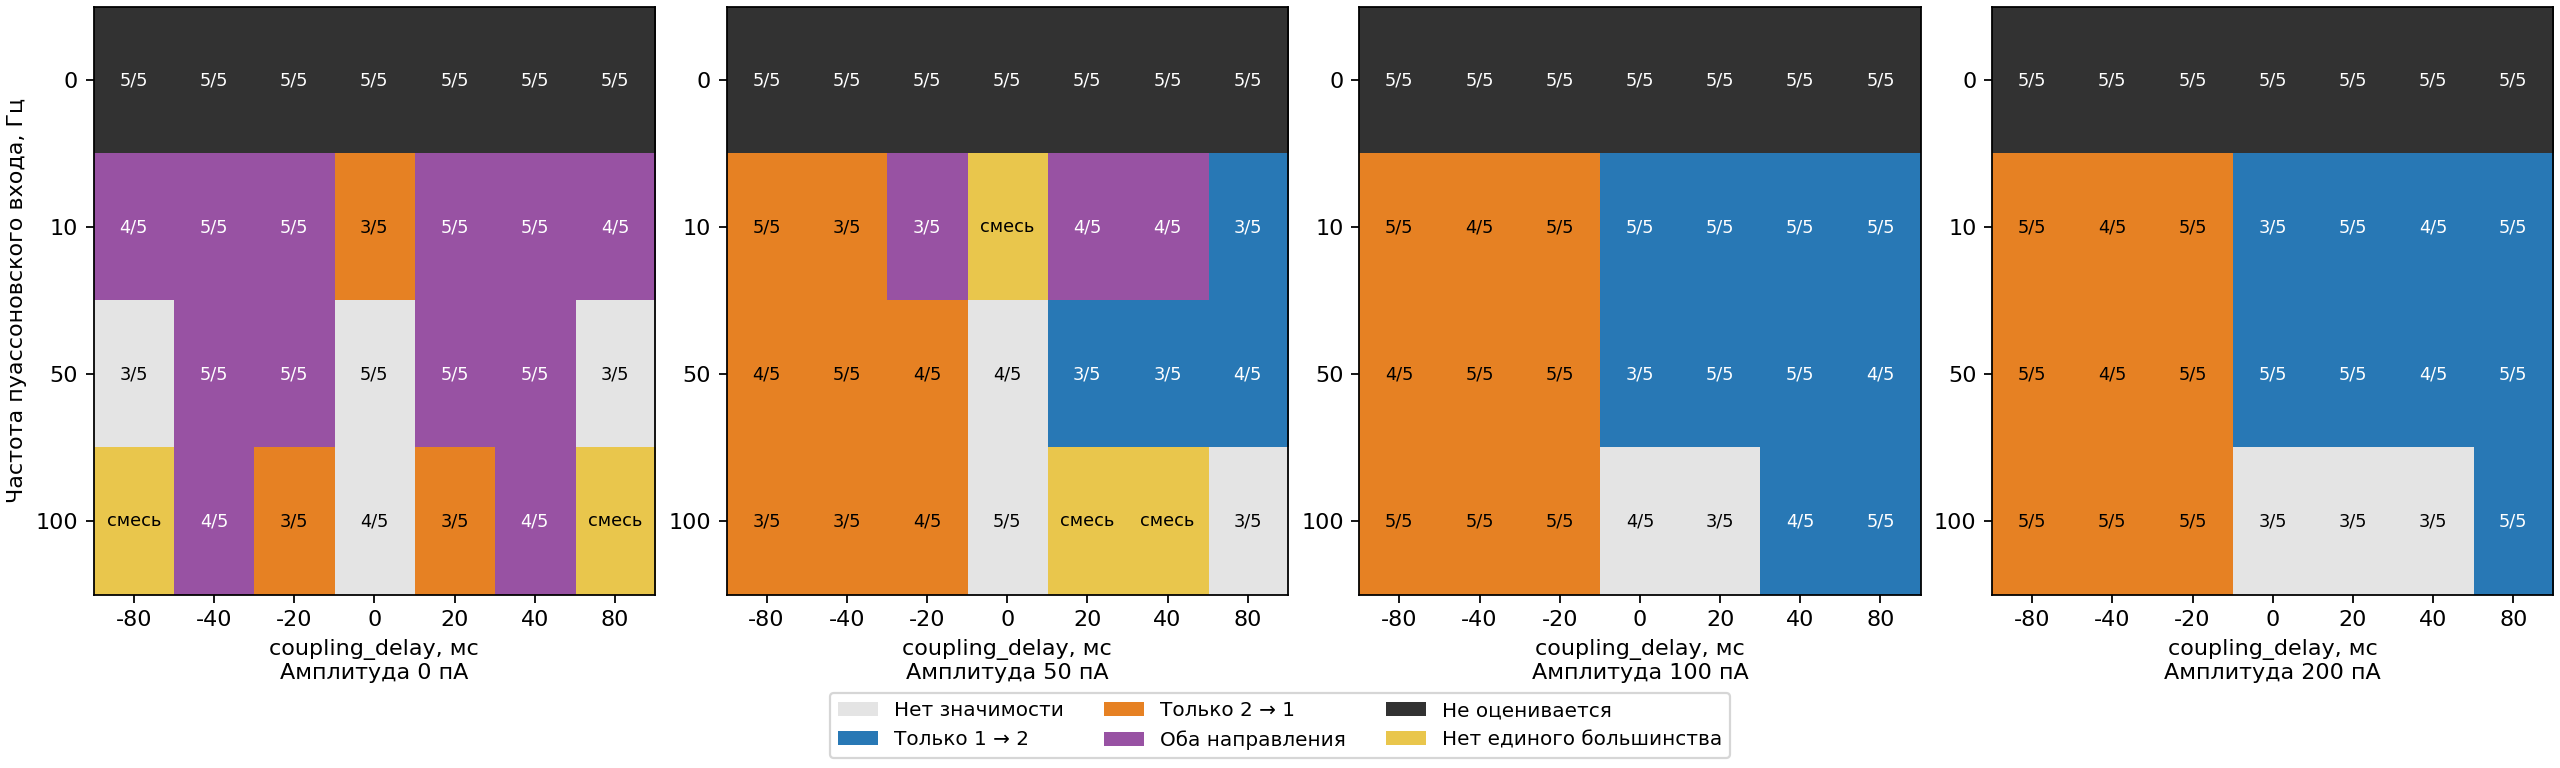
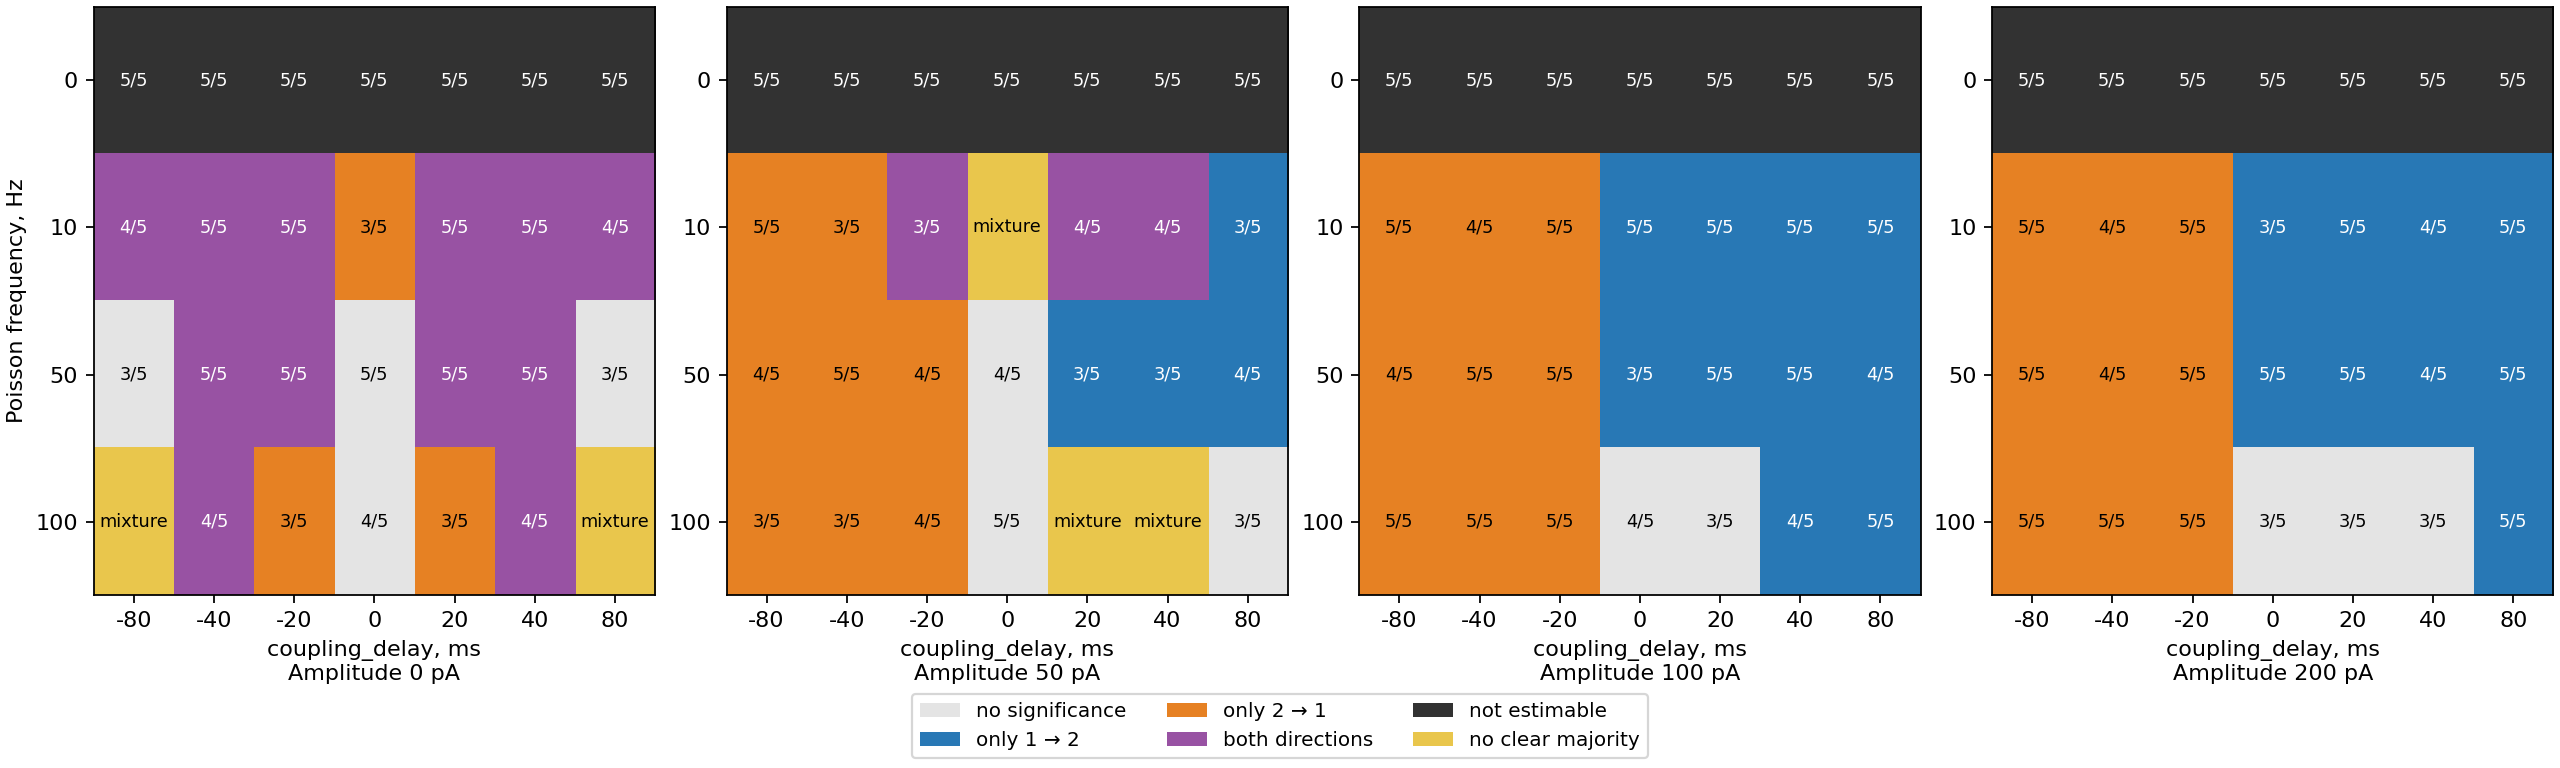
ver2.2

diff --git a/experiment3/systematic_reporting.py b/experiment3/systematic_reporting.py
@@ -7,8 +7,8 @@ import numpy as np
 
 METRICS = ("GC", "PDC", "DTF")
 OUTCOMES = (
-    "Нет значимости", "Только 1 → 2", "Только 2 → 1", "Оба направления",
-    "Не оценивается", "Нет единого большинства",
+    "no significance", "only 1 → 2", "only 2 → 1", "both directions",
+    "not estimable", "no clear majority",
 )
 
 
@@ -52,7 +52,7 @@ def plot_direction_maps(output, manifest, rows):
             )
             axes = axes[0]
             for amplitude, axis in zip(amplitudes, axes):
-                axis.set_xlabel(f"coupling_delay, мс\nАмплитуда {amplitude:g} пА")
+                axis.set_xlabel(f"coupling_delay, ms\nAmplitude {amplitude:g} pA")
                 axis.set_xticks(range(len(delays)), [f"{d:g}" for d in delays])
                 axis.set_yticks(range(len(noises)), [f"{v:g}" for v in noises])
                 codes = np.empty((len(noises), len(delays)), dtype=int)
@@ -63,11 +63,11 @@ def plot_direction_maps(output, manifest, rows):
                         winners = [code for code, count in counts.items() if count > len(samples)/2]
                         code = winners[0] if winners else 5
                         codes[i, j] = code
-                        text = f"{counts[code]}/{len(samples)}" if code < 5 else "смесь"
+                        text = f"{counts[code]}/{len(samples)}" if code < 5 else "mixture"
                         axis.text(j, i, text, ha="center", va="center", fontsize=8,
                                   color="white" if code in (1, 3, 4) else "black")
                 axis.imshow(codes, cmap=cmap, norm=norm, aspect="auto", interpolation="nearest")
-            axes[0].set_ylabel("Частота пуассоновского входа, Гц" if poisson else "Шум, мВ")
+            axes[0].set_ylabel("Poisson frequency, Hz" if poisson else "Noise, mV")
             figure.legend(
                 handles=[Patch(facecolor=c, label=label) for c, label in zip(colors, OUTCOMES)],
                 loc="outside lower center", ncols=3, fontsize=9,

diff --git a/experiment3/systematic_analysis.py b/experiment3/systematic_analysis.py
@@ -173,7 +173,7 @@ def main(argv=None):
     parser.add_argument("--p-max", type=int, default=20)
     parser.add_argument("--workers", type=int, default=4)
     parser.add_argument("--backend", choices=("cython", "numpy"), default="cython")
-    parser.add_argument("--output-dir", type=Path, default=BASE / "direction_results_harmonic_v2")
+    parser.add_argument("--output-dir", type=Path, default=BASE / "experiment3_results")
     parser.add_argument("--report-only", action="store_true",
                         help="Redraw only the six maps using saved manifest.json and runs.csv.")
     args = parser.parse_args(argv)
